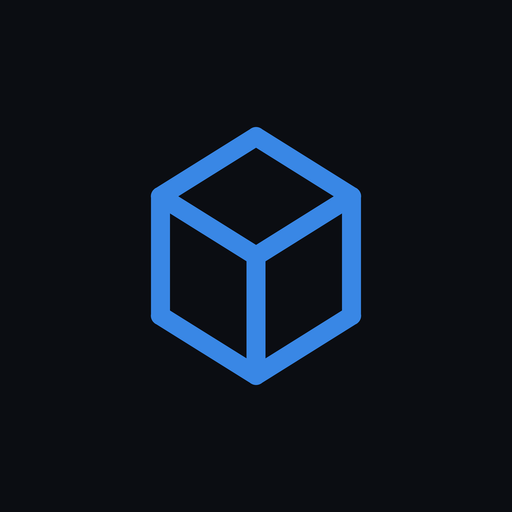
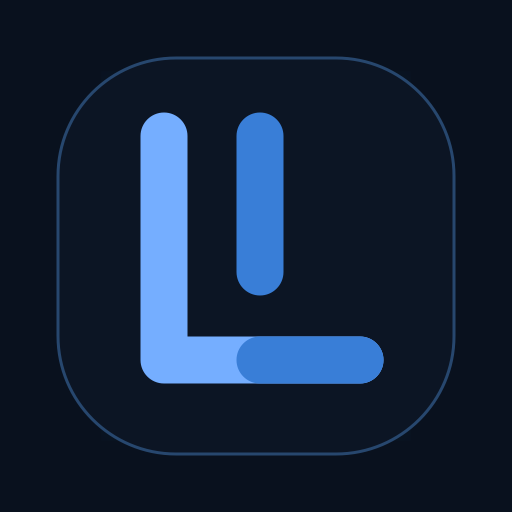
Apply Ledgerly ledger-line identity

diff --git a/index.html b/index.html
@@ -162,6 +162,8 @@
     .muted { color: var(--ink-muted); }
     .faint { color: var(--ink-faint); }
     .sect-title { font-family:'Manrope',system-ui,sans-serif; font-weight: 600; font-size: 18px; letter-spacing: -.025em; color: var(--ink); }
+    .brand-mark { display:grid; place-items:center; width:29px; height:29px; flex:none; border-radius:9px; color:#75AEFF; background:#09111E; border:1px solid rgba(117,174,255,.22); box-shadow:inset 0 1px 0 rgba(255,255,255,.06), 0 3px 10px rgba(0,0,0,.18); }
+    .brand-mark svg { width:18px; height:18px; }
     .pos { color: var(--pos); } .neg { color: var(--neg); }
 
     /* buttons */
@@ -243,9 +245,7 @@
     <nav class="lp-nav">
       <div class="lp-wrap flex items-center justify-between py-3.5">
         <div class="flex items-center gap-2.5">
-          <span class="grid place-items-center w-8 h-8 rounded-[9px]" style="background:var(--ink);color:var(--on-ink)">
-            <svg width="17" height="17" viewBox="0 0 24 24" fill="none" stroke="currentColor" stroke-width="1.6" stroke-linecap="round" stroke-linejoin="round"><path d="M12 2 4 7v10l8 5 8-5V7z"/><path d="m4 7 8 5 8-5"/><path d="M12 22V12"/></svg>
-          </span>
+          <span class="brand-mark"><svg viewBox="0 0 24 24" fill="none" stroke="currentColor" stroke-linecap="round" stroke-linejoin="round"><path d="M6 4v14h12" stroke-width="3.1"/><path d="M11 4v9" stroke-width="3.1"/><path d="M11 18h7" stroke-width="3.1"/></svg></span>
           <span class="font-display text-[19px] font-medium tracking-tight">Ledgerly</span>
         </div>
         <div class="flex items-center gap-2">
@@ -425,9 +425,7 @@
     <div class="w-full max-w-[380px]">
       <button id="auth-back" class="text-[12.5px] faint hover:text-[color:var(--ink)] transition mb-4">← Back</button>
       <div class="flex items-center gap-2.5 mb-7 justify-center">
-        <span class="grid place-items-center w-9 h-9 rounded-[10px]" style="background:var(--ink);color:var(--on-ink)">
-          <svg width="19" height="19" viewBox="0 0 24 24" fill="none" stroke="currentColor" stroke-width="1.6" stroke-linecap="round" stroke-linejoin="round"><path d="M12 2 4 7v10l8 5 8-5V7z"/><path d="m4 7 8 5 8-5"/><path d="M12 22V12"/></svg>
-        </span>
+        <span class="brand-mark" style="width:36px;height:36px;border-radius:11px"><svg viewBox="0 0 24 24" fill="none" stroke="currentColor" stroke-linecap="round" stroke-linejoin="round"><path d="M6 4v14h12" stroke-width="3.1"/><path d="M11 4v9" stroke-width="3.1"/><path d="M11 18h7" stroke-width="3.1"/></svg></span>
         <span class="font-display text-[22px] font-medium tracking-tight">Ledgerly</span>
       </div>
       <div class="card card-pad" style="box-shadow:var(--shadow-lg)">
@@ -466,9 +464,7 @@
     <header class="sticky top-0 z-30" style="background:var(--header-bg);backdrop-filter:blur(12px);border-bottom:1px solid var(--border);padding-top:env(safe-area-inset-top)">
       <div class="max-w-6xl mx-auto flex items-center gap-3 px-4 lg:px-6 py-3">
         <div class="flex items-center gap-2.5">
-          <span class="grid place-items-center w-8 h-8 rounded-[9px]" style="background:var(--ink);color:var(--on-ink)">
-            <svg width="17" height="17" viewBox="0 0 24 24" fill="none" stroke="currentColor" stroke-width="1.6" stroke-linecap="round" stroke-linejoin="round"><path d="M12 2 4 7v10l8 5 8-5V7z"/><path d="m4 7 8 5 8-5"/><path d="M12 22V12"/></svg>
-          </span>
+          <span class="brand-mark"><svg viewBox="0 0 24 24" fill="none" stroke="currentColor" stroke-linecap="round" stroke-linejoin="round"><path d="M6 4v14h12" stroke-width="3.1"/><path d="M11 4v9" stroke-width="3.1"/><path d="M11 18h7" stroke-width="3.1"/></svg></span>
           <span class="font-display text-[19px] font-medium tracking-tight hidden sm:block">Ledgerly</span>
         </div>
         <span id="header-date" class="text-[13px] muted hidden md:block ml-1"></span>
@@ -534,23 +530,23 @@
   <script type="importmap">
   {
     "imports": {
-      "./js/app.js": "./js/app.js?v=20261004-000213",
-      "./js/store.js": "./js/store.js?v=20261004-000213",
-      "./js/icons.js": "./js/icons.js?v=20261004-000213",
-      "./js/calendar.js": "./js/calendar.js?v=20261004-000213",
-      "./js/ledger.js": "./js/ledger.js?v=20261004-000213",
-      "./js/notes.js": "./js/notes.js?v=20261004-000213",
-      "./js/gym.js": "./js/gym.js?v=20261004-000213",
-      "./js/portfolio.js": "./js/portfolio.js?v=20261004-000213",
-      "./js/intake.js": "./js/intake.js?v=20261004-000213",
-      "./js/insights.js": "./js/insights.js?v=20261004-000213"
+      "./js/app.js": "./js/app.js?v=20261004-001059",
+      "./js/store.js": "./js/store.js?v=20261004-001059",
+      "./js/icons.js": "./js/icons.js?v=20261004-001059",
+      "./js/calendar.js": "./js/calendar.js?v=20261004-001059",
+      "./js/ledger.js": "./js/ledger.js?v=20261004-001059",
+      "./js/notes.js": "./js/notes.js?v=20261004-001059",
+      "./js/gym.js": "./js/gym.js?v=20261004-001059",
+      "./js/portfolio.js": "./js/portfolio.js?v=20261004-001059",
+      "./js/intake.js": "./js/intake.js?v=20261004-001059",
+      "./js/insights.js": "./js/insights.js?v=20261004-001059"
     }
   }
   </script>
 
   <script>
   (function () {
-    var BUILD = "20261004-000213";
+    var BUILD = "20261004-001059";
     function banner() {
       if (document.getElementById("ledgerly-update")) return;
       var d = document.createElement("div");
@@ -591,6 +587,6 @@
   })();
   </script>
 
-  <script type="module" src="js/app.js?v=20261004-000213"></script>
+  <script type="module" src="js/app.js?v=20261004-001059"></script>
 </body>
 </html>

diff --git a/js/icons.js b/js/icons.js
@@ -23,7 +23,7 @@ const P = {
   cap: '<path d="M21.4 10.9a1 1 0 0 0 0-1.8L12.8 5.2a2 2 0 0 0-1.6 0L2.6 9.1a1 1 0 0 0 0 1.8l8.6 3.9a2 2 0 0 0 1.6 0z"/><path d="M22 10v6"/><path d="M6 12.5V16a6 3 0 0 0 12 0v-3.5"/>',
   briefcase: '<path d="M16 20V4a2 2 0 0 0-2-2h-4a2 2 0 0 0-2 2v16"/><rect width="20" height="14" x="2" y="6" rx="2"/>',
   sparkle: '<path d="M9.9 2.6 8.5 6.4a2 2 0 0 1-1.1 1.1l-3.8 1.4a.5.5 0 0 0 0 .9l3.8 1.4a2 2 0 0 1 1.1 1.1l1.4 3.8a.5.5 0 0 0 .9 0l1.4-3.8a2 2 0 0 1 1.1-1.1l3.8-1.4a.5.5 0 0 0 0-.9l-3.8-1.4a2 2 0 0 1-1.1-1.1l-1.4-3.8a.5.5 0 0 0-.9 0z"/><path d="M18 5h4"/><path d="M20 3v4"/>',
-  logo: '<path d="M12 2 4 7v10l8 5 8-5V7z"/><path d="m12 22V12"/><path d="m4 7 8 5 8-5"/>',
+  logo: '<path d="M6 4v14h12" stroke-width="3.1"/><path d="M11 4v9" stroke-width="3.1"/><path d="M11 18h7" stroke-width="3.1"/>',
   sun: '<circle cx="12" cy="12" r="4"/><path d="M12 2v2"/><path d="M12 20v2"/><path d="m4.9 4.9 1.4 1.4"/><path d="m17.7 17.7 1.4 1.4"/><path d="M2 12h2"/><path d="M20 12h2"/><path d="m6.3 17.7-1.4 1.4"/><path d="m19.1 4.9-1.4 1.4"/>',
   moon: '<path d="M12 3a6 6 0 0 0 9 9 9 9 0 1 1-9-9Z"/>',
   insights: '<path d="M21 12c.6 0 1-.4.95-1a10 10 0 0 0-8.95-8.95c-.55-.05-1 .4-1 .95v8a1 1 0 0 0 1 1z"/><path d="M21.2 15.9A10 10 0 1 1 8 2.83"/>',

diff --git a/sw.js b/sw.js
@@ -13,7 +13,7 @@
 //                     cached entry can never be stale - it just stops being asked for.
 //   everything else-> straight to network, untouched (Firebase, the Worker API,
 //                     Yahoo quotes - never cache live money data).
-const BUILD = "20261004-000213";
+const BUILD = "20261004-001059";
 const CACHE = `ledgerly-${BUILD}`;
 const SHELL = ["./", "./index.html", "./manifest.json", "./icons/apple-touch-icon.png", "./icons/icon-192.png"];
 
